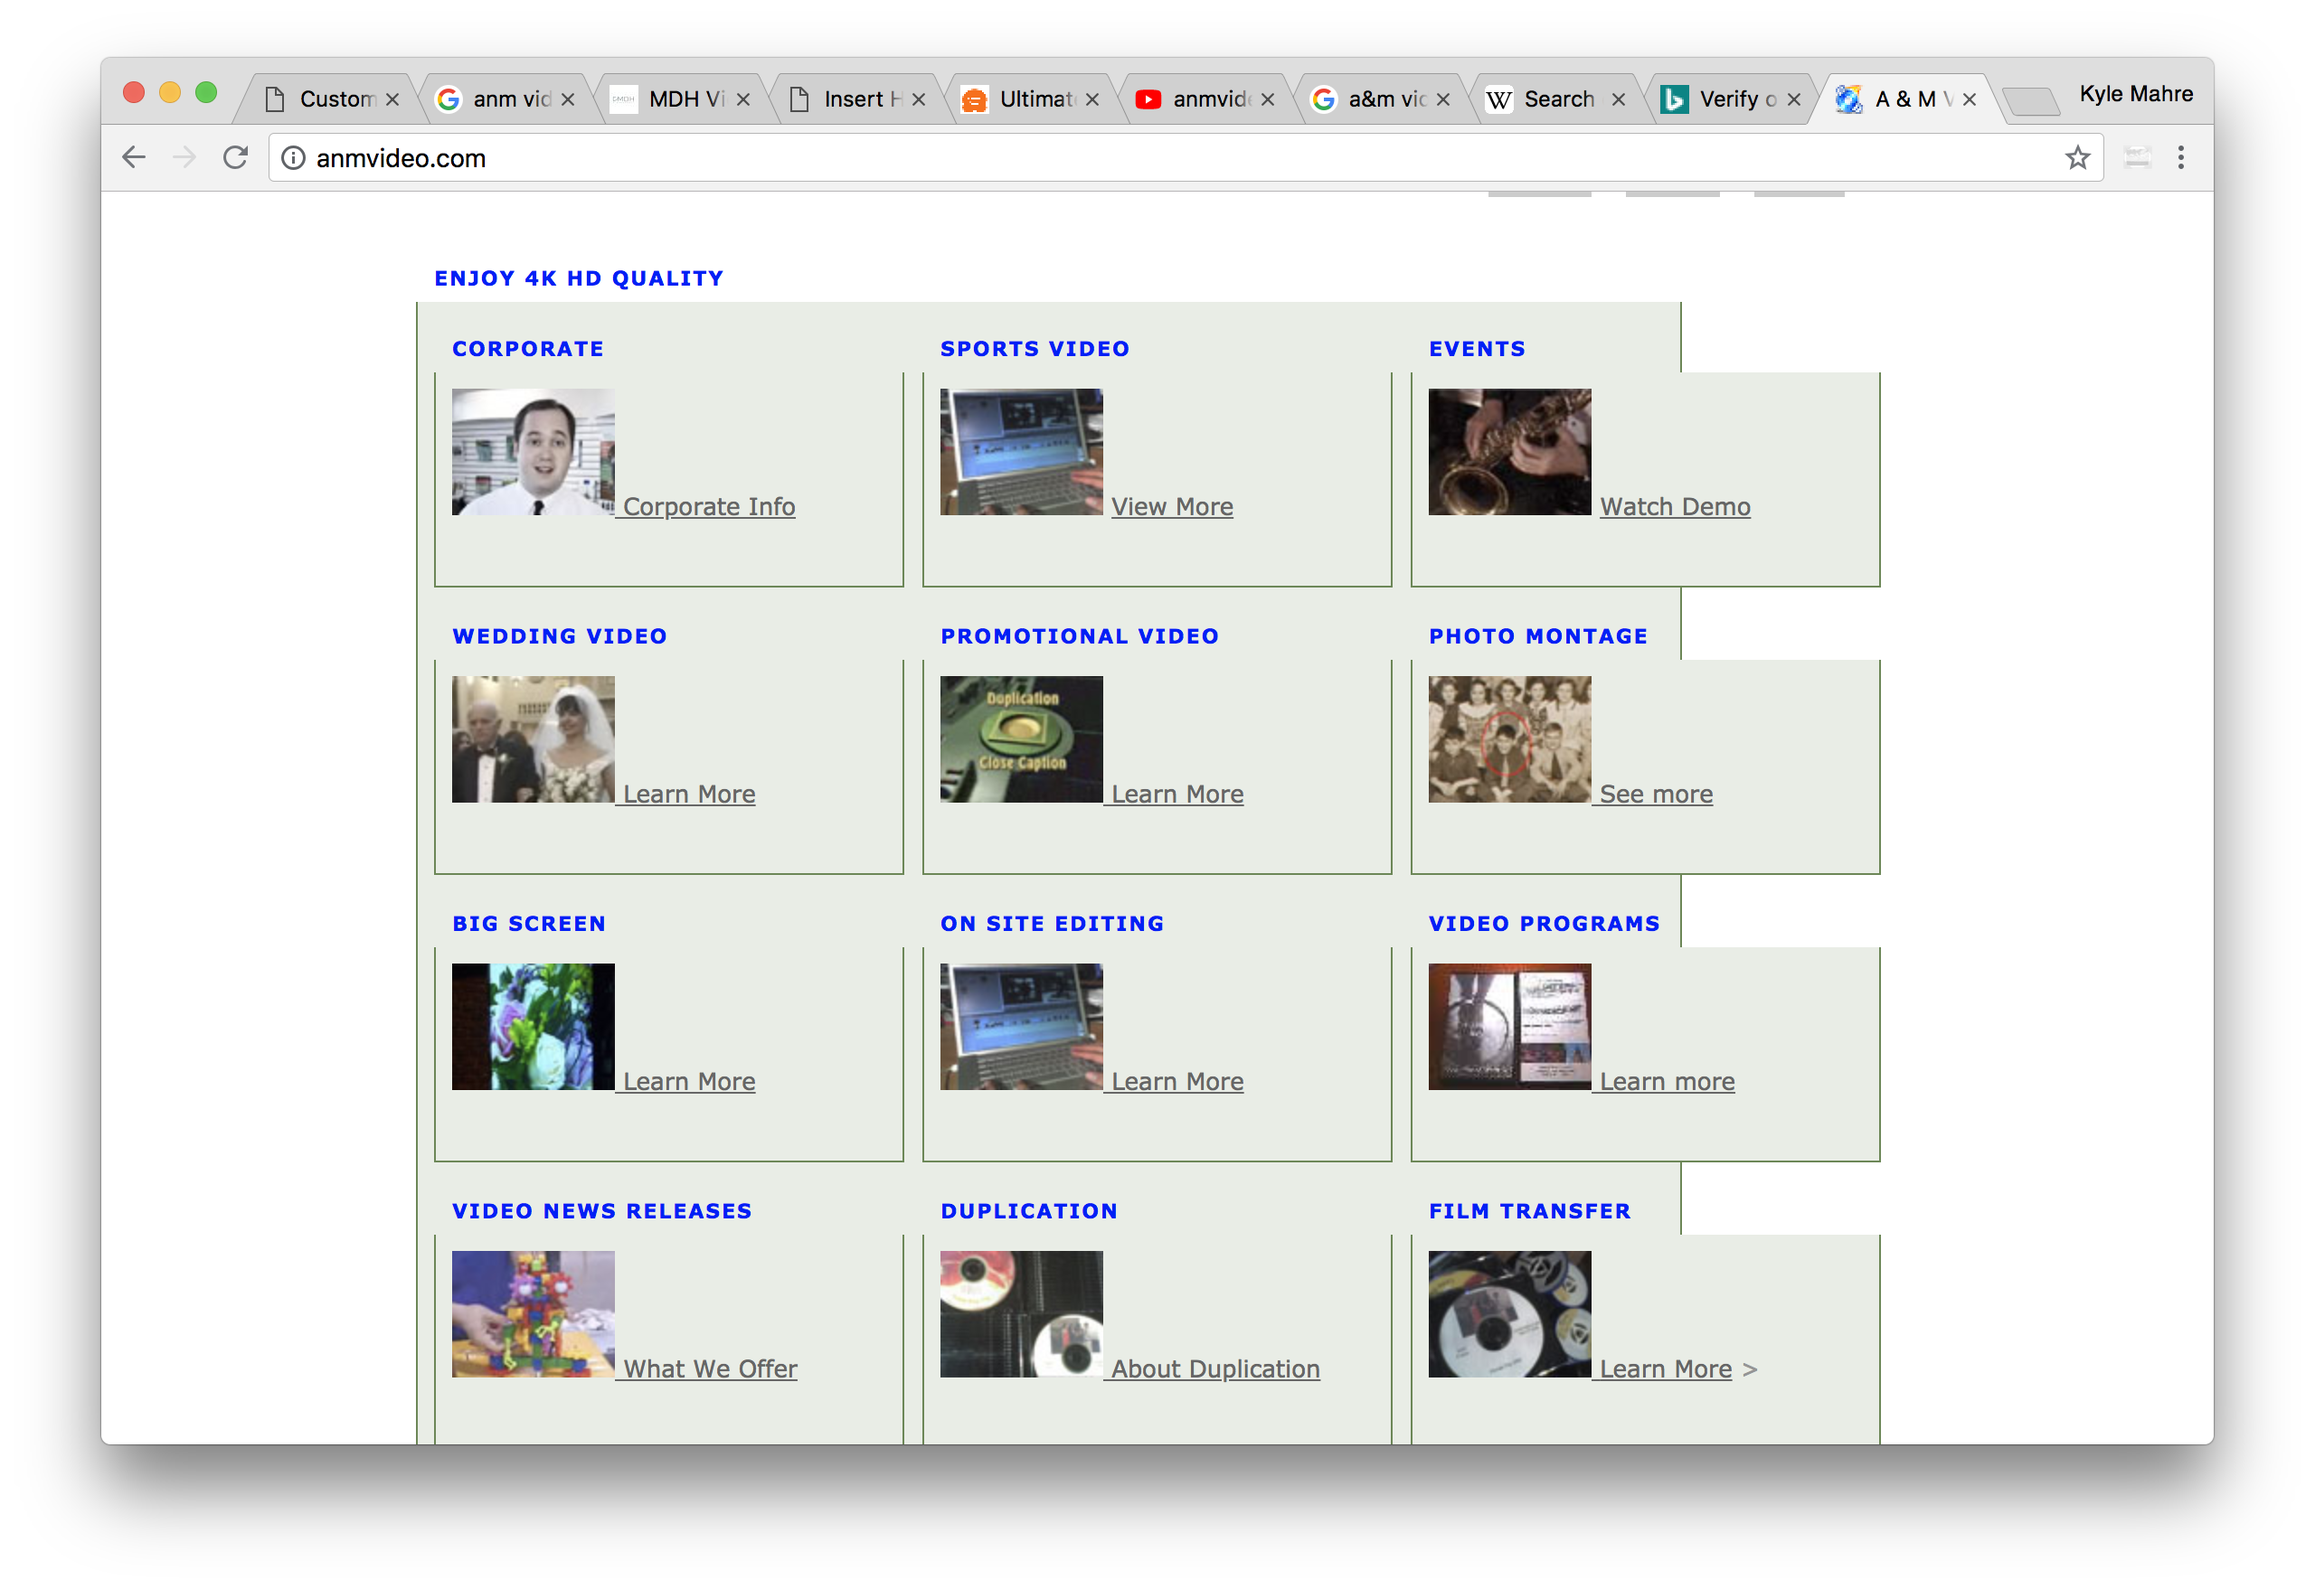
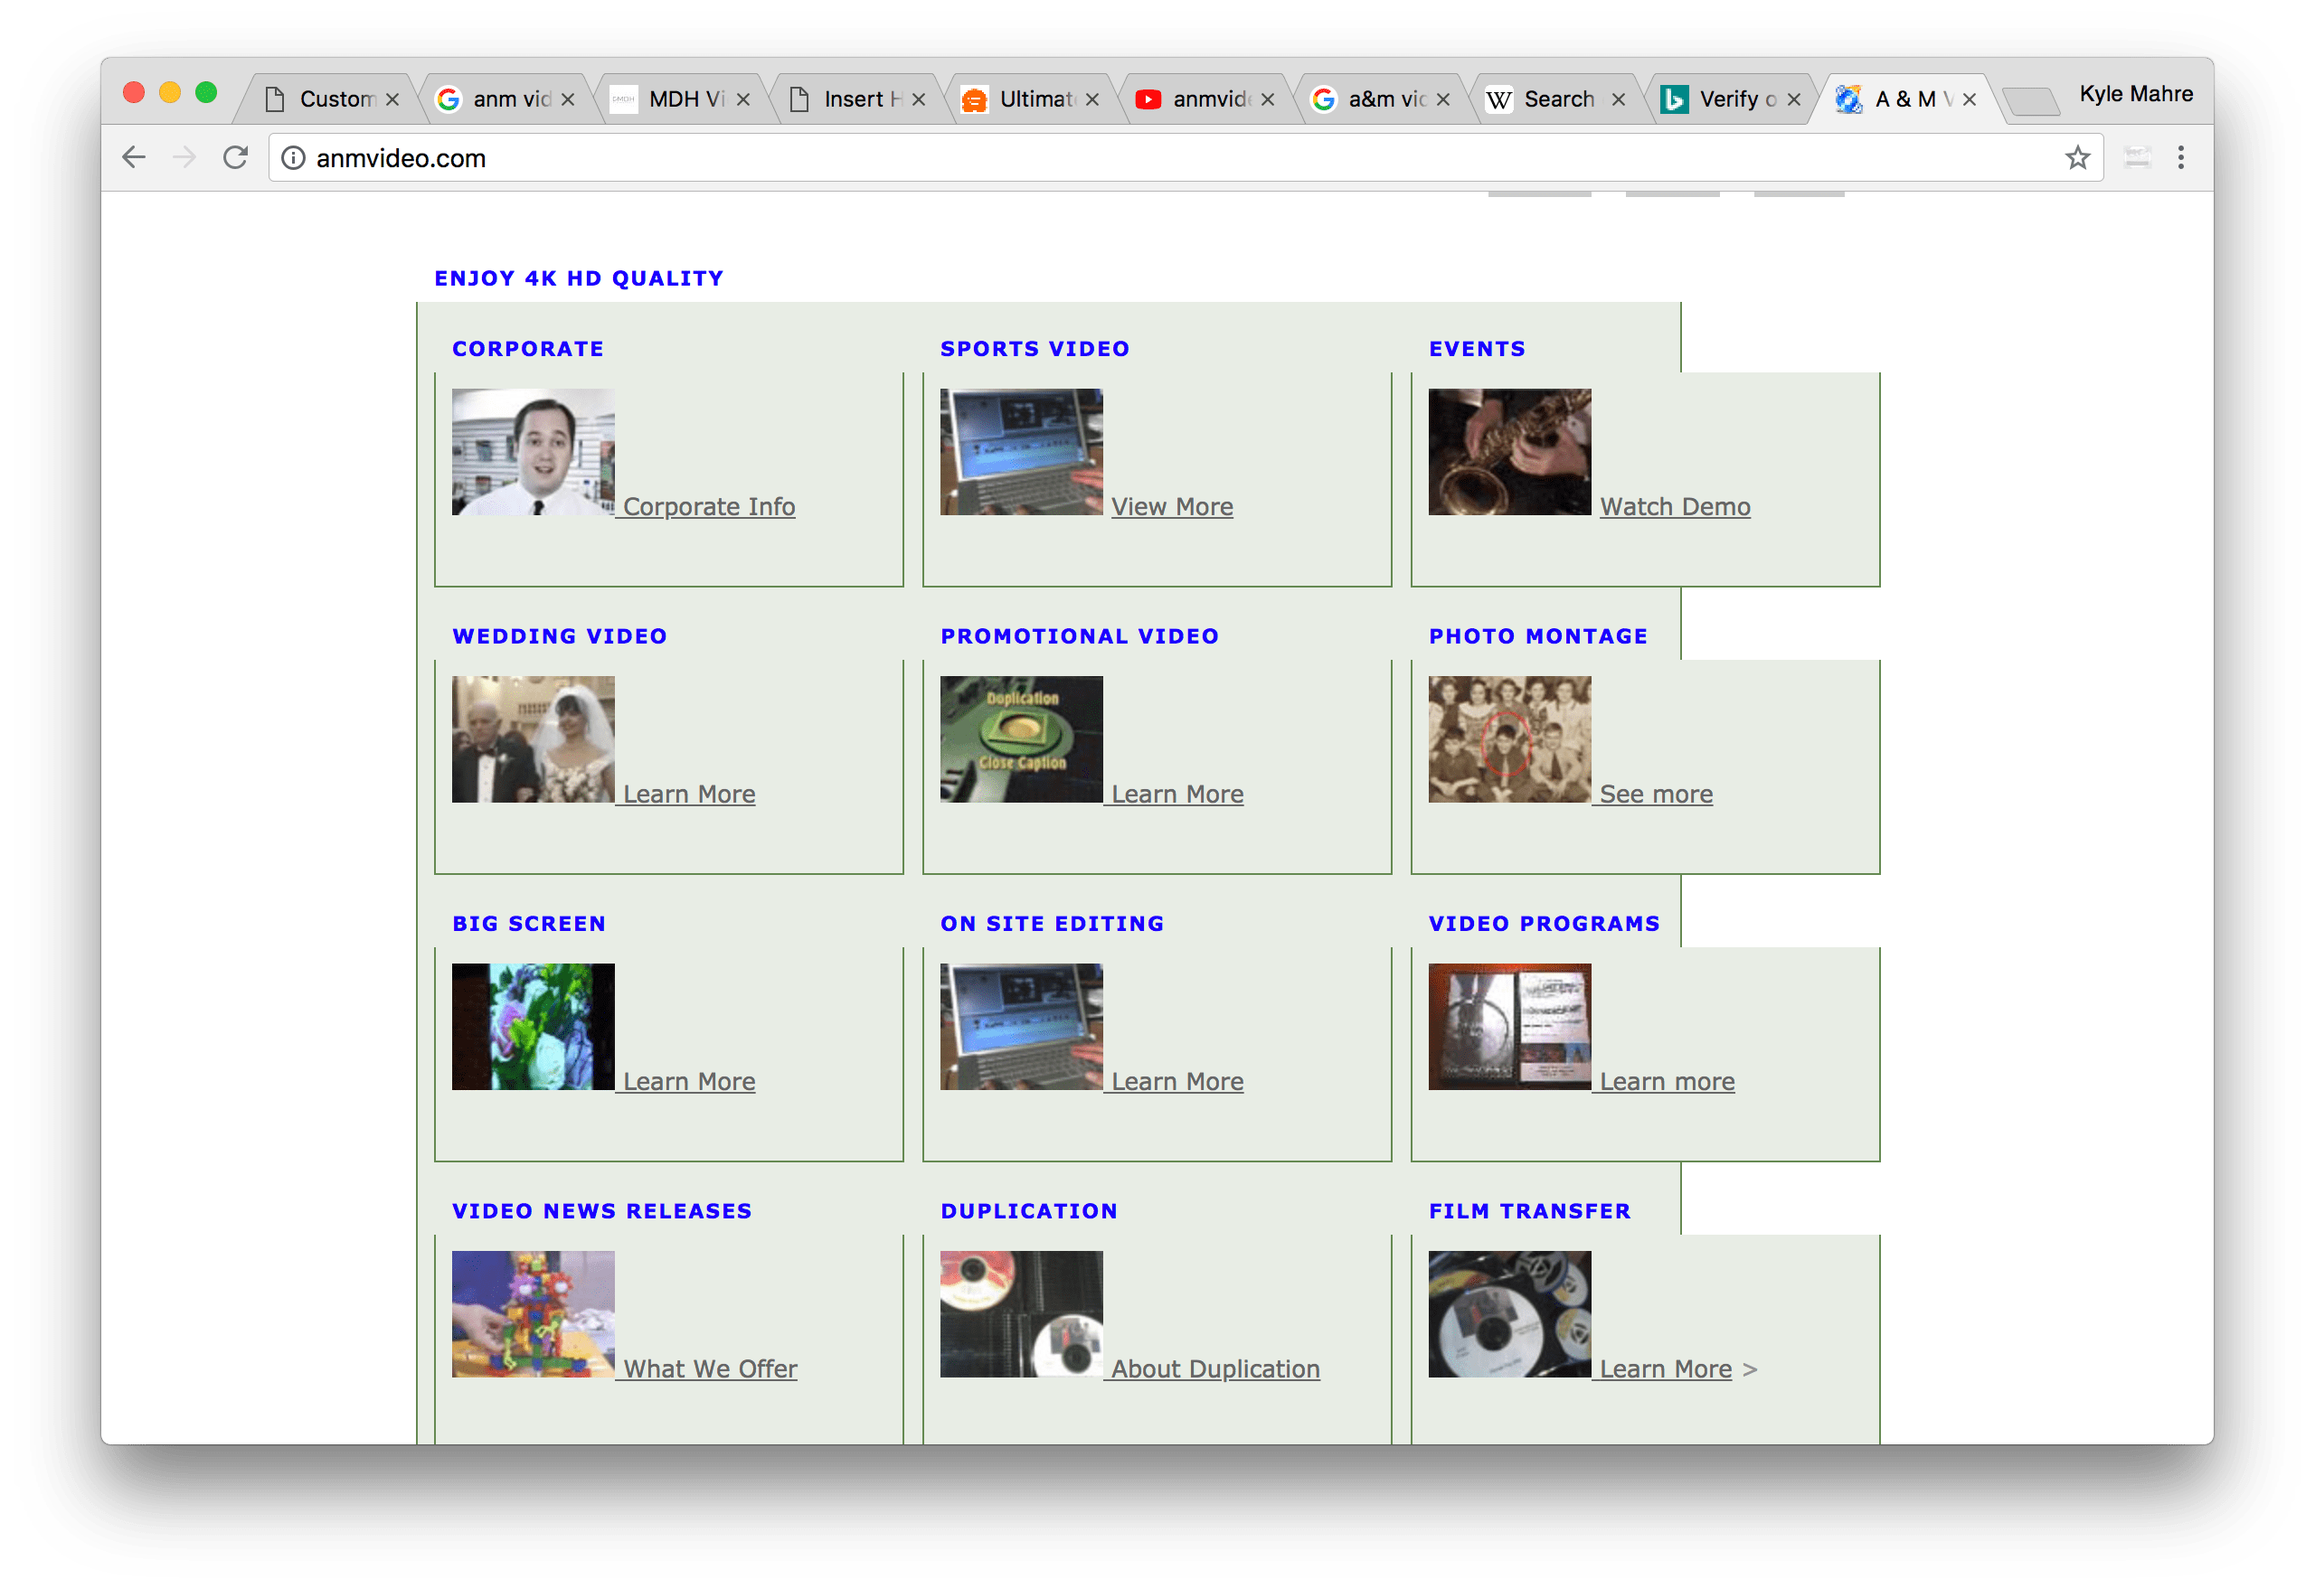
changed img css selector and optimized images

diff --git a/assets/styles.css b/assets/styles.css
@@ -58,7 +58,7 @@ hr{
  */
 .page-heading, .post-title{text-transform: uppercase;}
 
-article img {max-width: 50%;}
+li.post img{max-width: 50%;}
 
 /**
  * Text Rendering
